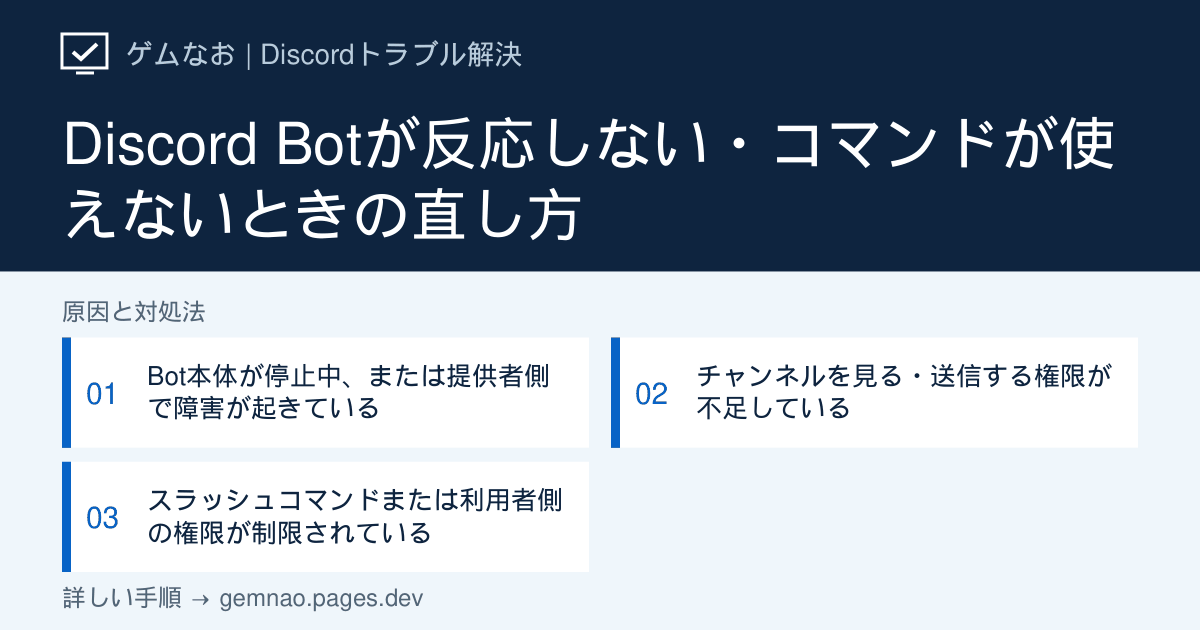
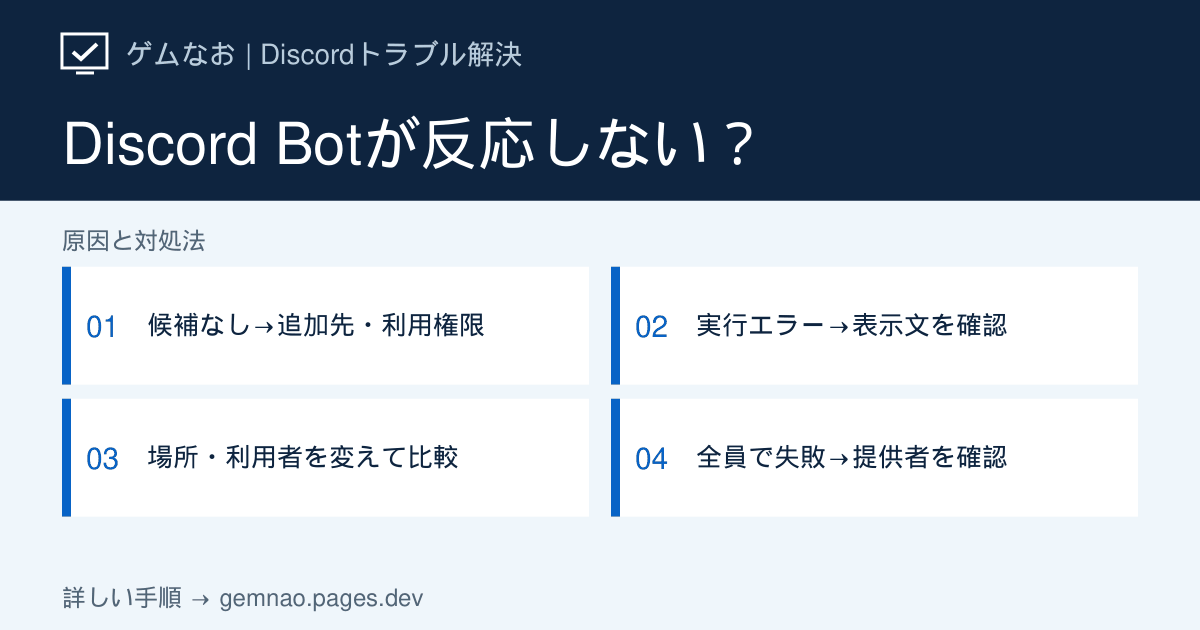
Improve bot response guide with command stages and user-channel comparisons

diff --git a/lib/discord-bot-articles.ts b/lib/discord-bot-articles.ts
@@ -93,83 +93,96 @@ export const discordBotArticles: DiscordArticle[] = [
     status: 'verified',
   },
   {
-    slug: 'bot-not-responding',
-    category: 'bot',
-    title: 'Discord Botが反応しない・コマンドが使えないときの直し方',
+    slug: 'bot-not-responding', category: 'bot',
+    title: 'Discord Botが反応しない｜コマンドが出ない・エラー・無応答で切り分け',
     shortTitle: 'Botが反応しない・コマンドが使えない',
-    seoTitle: 'Discord Botが反応しない・コマンドが使えない時の直し方',
-    metaDescription:
-      'Discord Botが反応しない、スラッシュコマンドが表示されない時の対処法。Botのオンライン状態、チャンネル権限、アプリコマンド権限、公式サポートを順に確認します。',
-    symptom:
-      'Discord Botへコマンドを送っても返事がない、「/」を入力してもコマンドが出ない、特定チャンネルや一部メンバーだけBotを使えない場合の切り分け手順です。',
-    target: 'Discordデスクトップ版・ブラウザ版／サーバー管理者・利用者',
-    conclusion:
-      'まずBotがオンラインか、ほかのチャンネルやサーバーでも止まっているかを確認します。次に「チャンネルを見る」「メッセージを送信」「アプリコマンドを使う」の権限と、チャンネルごとの上書きを確認してください。',
-    quickFixes: [
-      'メンバー一覧でBotがオフラインになっていないか確認する',
-      '別のテキストチャンネルで「/」を入力し、Botのコマンドが表示されるか確認する',
-      'Botのロールとチャンネル権限で、表示・送信・アプリコマンドが許可されているか確認する',
+    seoTitle: 'Discord Botが反応しない原因と直し方｜コマンド・応答エラー別',
+    metaDescription: 'Discord Botのコマンド候補が出ない、アプリケーションが応答しませんでした、実行後に返事がない場合を区別。別チャンネル・別利用者との比較、利用者とBotの権限、提供者への相談方法を解説します。',
+    symptom: '「/」に目的のコマンドが出ない、送信後にエラーが出る、またはBotから返事がない場合の手順です。利用者が確認できる範囲と、サーバー管理者が変更する設定を分けます。',
+    target: 'Discordデスクトップ版・ブラウザ版／既存Bot・アプリの利用者とサーバー管理者',
+    conclusion: '候補が出ないなら追加先とコマンド利用権限、実行エラーなら表示された文言、無応答なら使い方とBot提供者の障害情報を確認します。同じコマンドで「同じ人・別チャンネル」「同じチャンネル・別の人」を順に比較すると、チャンネル・利用者・Bot側のどこを優先して調べるか絞れます。',
+    quickFixes: ['候補なし・実行エラー・無応答のどこで止まるか記録する', '設定を変えない確認用コマンドで、チャンネルと利用者を1つずつ変える', '結果に合う権限だけ確認し、Bot側の問題なら提供者へ比較結果を送る'],
+    showStatusCheck: false,
+    diagnosisTitle: 'どこで止まる？ コマンド候補・実行エラー・無応答の判断表',
+    diagnosisIntro: 'Bot名、コマンド名、入力したオプション、エラー全文を控えてください。「/help」などがあるとは限らないため、提供者が案内する閲覧・ヘルプ用のコマンドを比較に使います。削除・BAN・一括通知などはテストに使いません。',
+    diagnosis: [
+      { symptom: '「/」を入力しても対象Bot・コマンドが出ない', check: '追加先と利用者のコマンド権限を確認', causeIndex: 1 },
+      { symptom: '候補は出るが、権限不足・入力不正などのエラー', check: '文言が利用者・Bot・入力条件のどれを指すか確認', causeIndex: 3 },
+      { symptom: '「アプリケーションが応答しませんでした」など', check: '同じコマンドを別チャンネル・別利用者で比較', causeIndex: 2 },
+      { symptom: '自分は別チャンネルなら使える', check: '元のチャンネルの権限とBot固有の利用場所設定', causeIndex: 4 },
+      { symptom: '同じチャンネルで他の一般メンバーは使える', check: '自分のロール・個別制限・アカウント連携条件', causeIndex: 4 },
+      { symptom: 'どの場所・利用者でも対象Botだけ返事がない', check: '提供者の障害・コマンド変更・利用条件を確認', causeIndex: 5 },
     ],
     causes: [
       {
-        title: 'Bot本体が停止中、または提供者側で障害が起きている',
-        description:
-          'BotはDiscordとは別の開発者・運営者が提供しているため、Discordが正常でもBot側の停止やメンテナンスで反応しないことがあります。',
+        title: '候補が出ないなら、使い方とアプリの追加先を確認する',
+        description: 'コマンド候補の表示と、実行後にBotが応答することは別の段階です。先にどのアプリのどの操作かを特定します。',
         actions: [
-          'メンバー一覧でBotの状態がオフラインになっていないか確認する',
-          '同じサーバーの別チャンネルで同じコマンドを試す',
-          'BotのApp Directory概要やプロフィールから公式サポート先を確認する',
-          'サポートサーバーや公式案内で障害・メンテナンス情報を確認する',
-        ],
-        note: 'Bot側の停止中は、Discordの再インストールやPC設定変更では直りません。復旧または提供者の案内を待ってください。',
-      },
-      {
-        title: 'チャンネルを見る・送信する権限が不足している',
-        description:
-          'Botがチャンネルを閲覧できない、メッセージ送信や履歴閲覧を許可されていない場合、コマンドを受け取れても回答できないことがあります。',
-        actions: [
-          'サーバー設定からBotに割り当てられたロールを開く',
-          'Botの機能に必要な「チャンネルを見る」「メッセージを送信」「メッセージ履歴を読む」を確認する',
-          '問題が起きるチャンネルの「権限」で、BotまたはBotロールへの拒否設定がないか確認する',
-          '管理者権限を追加するのではなく、必要な権限だけを許可して再確認する',
+          '対象チャンネルで半角の「/」を入力し、Bot名とコマンド候補を確認する。同名コマンドが複数ある場合は提供元のBotも照合する。',
+          '以前の「!」などで始まるコマンドを送っていた場合は、Botのプロフィール・App Directoryの案内で現在の呼び出し方を確認する。すべてのBotが同じ記号やコマンドを使うわけではない。',
+          '管理者は「サーバー設定」→「連携サービス」で対象アプリを確認する。サーバーに追加したBotと、自分のアカウントへ追加したアプリは区別する。後者はユーザー設定の「認証済みアプリ／Authorized Apps」で確認する。',
+          '追加済みなのに候補がない場合はSTEP 2の比較へ進む。対象が未追加なら関連記事「Botの入れ方・追加方法」へ。確認せずに削除・再追加を繰り返さない。',
         ],
       },
       {
-        title: 'スラッシュコマンドまたは利用者側の権限が制限されている',
-        description:
-          'Discordには「アプリコマンドを使う」権限があり、サーバー・ロール・チャンネル単位の設定でコマンドが表示されない場合があります。',
+        title: '同じコマンドで、チャンネルと利用者を1つずつ変える',
+        description: '次の比較は原因の断定ではなく、確認範囲を絞る方法です。コマンドと入力内容は同じにし、実行が許可された場所だけで試します。',
         actions: [
-          'テキストチャンネルで「/」を入力し、対象Botのコマンドが候補に出るか確認する',
-          'サーバー設定のロール権限で「アプリコマンドを使う」を確認する',
-          '対象チャンネルの権限上書きで、利用者またはロールが拒否されていないか確認する',
-          '「サーバー設定」→「連携サービス」で対象アプリのコマンド設定を確認する',
-          '権限を変更したらDiscordを再読み込みし、もう一度「/」を入力する',
+          'まず自分が元のチャンネルで1回試し、「候補なし」「エラー文あり」「返事なし」「成功」のどれかを記録する。応答が遅い時に連投しない。',
+          '次に自分が同じサーバーの別の利用可能なテキストチャンネルで試す。そこだけ成功するなら、元のチャンネルの設定をSTEP 4で確認する。',
+          '元のチャンネルで別の一般メンバーにも同じ確認を頼む。他の人だけ成功するなら利用者のロール・個別設定・Bot側の利用条件を調べる。本人が操作し、アカウントを借りない。',
+          '管理者だけ成功した結果は、一般メンバーも使える証拠にはならない。管理者は一部のコマンド制限の影響を受けないため、役割の違いも記録する。',
+          '全員・全チャンネルで失敗するならSTEP 5へ。候補自体が自分のアプリだけ出ない場合は、同じアカウント・チャンネルのブラウザ版で表示を比較し、アプリを再読み込みする。',
+        ],
+        note: '比較例：「自分はAで失敗、Bで成功」ならAの設定が確認先。「Aで自分は失敗、別の一般メンバーは成功」なら利用者ごとの条件が確認先です。実際の結果に置き換えて判断してください。',
+      },
+      {
+        title: '実行エラーは、文言と失敗した処理で次の確認先を選ぶ',
+        description: '候補を選んで実行できた後のエラーは、候補が出ない問題と分けます。アプリからの説明とDiscord側の応答エラーも区別します。',
+        actions: [
+          '必須項目や入力形式のエラーなら、コマンド候補に表示される説明と選択肢に合わせて入力する。日時・URL・対象ユーザーなど、何が不足しているかを読む。',
+          '権限不足なら、利用者に必要な権限なのか、Botが操作する権限なのかを確認する。対象が不明ならエラー全文を管理者へ渡し、推測で権限を増やさない。',
+          'クールダウン・利用上限・連携未完了などBot独自の表示なら、その案内に従う。待機時間はBotによって異なるので一律の分数を決めない。',
+          '「アプリケーションが応答しませんでした」などは、必要な応答が得られなかった表示で、権限不足だけを意味しない。STEP 2の比較と提供者の稼働情報を確認する。',
+          '結果が表示されても、ロール付与など目的の処理まで成功したか確認する。処理だけ失敗する場合は、その機能が必要とする権限やロールの順序を提供者の説明と照合する。',
+        ],
+      },
+      {
+        title: '管理者は、利用者のコマンド権限とBotの操作権限を別々に確認する',
+        description: '利用者が呼び出す権限と、Botが投稿・操作する権限は同じではありません。元の設定を控え、比較で問題が絞れた場所だけを変更します。',
+        actions: [
+          '候補や実行の可否が利用者によって違う場合は「サーバー設定」→「ロール」で、その人の「アプリコマンドを使う」権限を確認する。',
+          '問題のチャンネルの歯車→「権限」を開き、利用者・ロールへの上書きを確認する。さらに「サーバー設定」→「連携サービス」→対象アプリで、表示されるコマンドの利用者・チャンネル制限を確認する。',
+          'Botの投稿・操作が失敗する場合は、対象チャンネルでBotに必要な「チャンネルを見る」「メッセージを送信」などを確認する。履歴閲覧・ファイル添付・ロール管理などは使う機能に必要な場合だけ調べる。',
+          'スラッシュコマンドへの応答と通常のメッセージ投稿では動作条件が異なるため、送信権限を付ければすべて直るとは考えない。Bot独自の許可チャンネル設定もあれば確認する。',
+          '変更後は問題があった一般メンバーが、同じチャンネル・同じコマンドで再確認する。候補表示だけでなく期待する結果まで成功すれば完了。不要だった変更は元に戻す。',
+        ],
+        note: '設定画面を開けない利用者は管理者へ比較結果を渡してください。テスト目的でBotや利用者へ管理者権限を一括付与する必要はありません。',
+      },
+      {
+        title: '無応答が広く再現するなら、Bot提供者と応答先を確認する',
+        description: 'Botのオンライン表示だけでコマンド処理の正常動作は保証されません。逆に、メンバー一覧の状態だけでアプリ全体の故障とも断定しません。',
+        actions: [
+          'Botの説明で返事の場所を確認する。実行者にだけ見える応答、DM、専用チャンネルなど、想定と違う場所へ結果が出る機能もある。',
+          'プロフィールやApp Directoryの概要から提供者のサポート先を開き、障害・メンテナンス・コマンド変更を確認する。ほかの機能は使えるなら、失敗するコマンド名も伝える。',
+          '複数BotやDiscordの通常操作にも問題があればDiscord Statusも確認する。特定Botだけの障害が案内されている場合は、PCの再インストールやサーバー設定変更を進めず復旧を待つ。',
+          '改善しなければBot名、コマンドと必要なオプション、発生日時、エラー全文、別チャンネル・別利用者の結果を提供者へ送る。画像の個人情報は隠し、Botトークン・パスワード・認証コードは送らない。',
         ],
       },
     ],
-    ifNotFixed:
-      'Botがオンラインで権限も正しいのに反応しない場合は、そのBot固有の設定やコマンド変更の可能性があります。App Directoryの概要、Botのヘルプコマンド、公式サポートサーバーを確認してください。複数のBotが同時に使えない場合だけ、Discord Statusやサーバー側の権限変更履歴も確認します。',
+    ifNotFixed: '相談用の記録例：「対象Bot／コマンド名／候補は表示／実行後に応答エラー／自分はA・B両チャンネルで失敗／別の一般メンバーもAで失敗／別コマンドは成功」。実際の結果に置き換え、未確認は未確認と書くと提供者が確認する範囲を絞れます。',
     faqs: [
-      {
-        question: 'Botがオンラインなのに反応しないのはなぜですか？',
-        answer:
-          'チャンネルを見る・送信する権限、アプリコマンド権限、Bot固有の設定が原因の可能性があります。別チャンネルで動くか確認すると切り分けやすくなります。',
-      },
-      {
-        question: 'スラッシュコマンドが表示されません',
-        answer:
-          '「アプリコマンドを使う」権限とチャンネルごとの上書きを確認してください。Botが正しく追加されていない場合は、連携サービスとメンバー一覧も確認します。',
-      },
-      {
-        question: 'Botへ管理者権限を付ければ直りますか？',
-        answer:
-          '切り分けのために管理者権限を付ける方法は推奨しません。Botの機能に必要な権限だけを確認し、過剰な権限を与えないでください。',
-      },
+      { question: 'Botがオンラインなのに反応しません', answer: 'オンライン表示だけでは、各コマンドや外部サービスとの連携が正常かは分かりません。同じコマンドの別チャンネル・別利用者での結果と、提供者の障害案内を確認します。' },
+      { question: '管理者には使えて一般メンバーには使えません', answer: '利用者のロール、チャンネルの権限上書き、連携サービス内のコマンド制限を確認します。管理者での成功だけでは一般メンバーの設定を検証できないので、変更後は元の利用者で再確認してください。' },
+      { question: '「アプリケーションが応答しませんでした」は権限不足？', answer: 'それだけでは断定できません。応答処理の遅延・失敗なども考えられます。エラー全文と比較結果を残し、同じ要求を連投しないでください。' },
+      { question: 'メンバー一覧にいないアプリのコマンドが出ます', answer: '自分のアカウントへ追加されたアプリの場合があります。サーバー追加型と同じと考えず、ユーザー設定の認証済みアプリも確認してください。' },
+      { question: '一度キックして入れ直す方が早い？', answer: '先に追加先と権限、提供者の状態を確認してください。再追加でBot側の障害が直るとは限らず、設定の扱いもBotによって異なります。必要な場合だけ提供者の案内に沿って行います。' },
     ],
-    sources: [usingApps, permissions],
+    sources: [usingApps, permissions, { label: 'Discord公式：チャンネル権限の設定', url: 'https://support.discord.com/hc/en-us/articles/10543994968087-Channel-Permissions-Settings-101' }, { label: 'Discord公式：コマンド権限と管理者の扱い', url: 'https://support.discord.com/hc/en-us/articles/10952702911639-Command-Permissions-Lockout' }, { label: 'Discord公式開発者資料：コマンドなどへの応答', url: 'https://docs.discord.com/developers/interactions/receiving-and-responding' }, { label: 'Discord Status（公式障害情報）', url: 'https://discordstatus.com/' }],
     related: ['bot-add', 'bot-remove', 'loading-stuck'],
-    checkedAt: '2026-09-20',
-    status: 'verified',
+    checkedAt: '2026-09-28', status: 'verified',
+    ogTitle: 'Discord Botが反応しない？',
+    ogSteps: ['候補なし→追加先・利用権限', '実行エラー→表示文を確認', '場所・利用者を変えて比較', '全員で失敗→提供者を確認'],
   },
   {
     slug: 'bot-remove',

diff --git a/lib/og-image-manifest.ts b/lib/og-image-manifest.ts
@@ -4,7 +4,7 @@ export const ogImageManifest: Record<string, string> = {
   "/discord/audio-input-not-found": "2fd2279d",
   "/discord/bluetooth-audio-problem": "204d6798",
   "/discord/bot-add": "77bf7c24",
-  "/discord/bot-not-responding": "ee315b02",
+  "/discord/bot-not-responding": "905417cd",
   "/discord/bot-remove": "b35c5c5b",
   "/discord/call-disconnects": "bb6b1e0b",
   "/discord/camera-not-working": "1a81ecf4",
